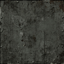
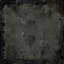
Mouvement de camera + New textures

diff --git a/src/MyGame.cpp b/src/MyGame.cpp
@@ -7,8 +7,8 @@ void MyGame::initialize(void) {
     window_.create();
     camera_.initialize();
 
-    //Map map_(20, 2, 10, &objects_);
-    Map map_("map/usine", USINE, 2, 10, &objects_);
+    //Map map_(60, 2, 11, &objects_);
+    Map map_("map/plaine", USINE, 1, 1, &objects_);
 
     cameraY_ = map_.getMaxX() * 325.0f;
     this->objects_.push_back(new Display::Timer(&objects_));
@@ -40,8 +40,12 @@ void MyGame::update(void) {
         }
     }
     this->checkWin();
-    if (input_.isKeyDown(gdl::Keys::F1) == true)
-        std::cout << camera_.getPosition().y << std::endl;
+    if (input_.isKeyDown(gdl::Keys::F1) == true && camera_.getPosition().z != 5000.0f)
+        camera_.setPosition(camera_.getPosition().x, camera_.getPosition().y, camera_.getPosition().z  + 50.0f);
+    if (input_.isKeyDown(gdl::Keys::F2) == true && camera_.getPosition().z != 900.0f)
+        camera_.setPosition(camera_.getPosition().x, camera_.getPosition().y, camera_.getPosition().z  - 50.0f);
+    if (input_.isKeyDown(gdl::Keys::F3) == true)
+        camera_.setPosition(camera_.getPosition().x, camera_.getPosition().y, 900.0f);
     if (input_.isKeyDown(gdl::Keys::Escape) == true)
         exit(EXIT_FAILURE);
 }
@@ -65,17 +69,24 @@ void MyGame::unload(void) {
 }
 
 void MyGame::checkWin(void) {
-    int count = 0;
+    int countP = 0;
+    int countIA = 0;
     for (std::list<AObject*>::iterator it = this->objects_.begin(); it != this->objects_.end(); ++it) {
-        if ((*it)->getType() == PLAYER && (*it)->getId() <= 3)
-            count++;
+        if ((*it)->getType() == PLAYER && (*it)->getId() < 3)
+            countP++;
+        if ((*it)->getType() == PLAYER && (*it)->getId() == 3)
+            countIA++;
     }
-    if (count == 1) {
+    if (countP == 1 && countIA == 0) {
         for (std::list<AObject*>::iterator it = this->objects_.begin(); it != this->objects_.end(); ++it) {
             if ((*it)->getType() == PLAYER) {
                 std::cout << "GAME OVER: Player " << (*it)->getId() << " win" << std::endl;
                 exit(EXIT_SUCCESS);
             }
         }
+    }
+    if (countP == 0 && countIA > 0) {
+        std::cout << "GAME OVER: Computer win" << std::endl;
+        exit(EXIT_SUCCESS);
     }
 }

diff --git a/src/Display.cpp b/src/Display.cpp
@@ -43,14 +43,14 @@ namespace Display {
 
         glEnd();
         glPopMatrix();
-        camera_.setPosition(this->camera_.getPosition().x, camera_.getPosition().y, camera_.getPosition().z + 1.f);
+        camera_.setPosition(this->camera_.getPosition().x + 1.f, camera_.getPosition().y, camera_.getPosition().z);
 
         T_time_.setText(s_time_);
         T_time_.setSize(18);
         T_time_.setPosition(500, 10);
         T_time_.draw();
 
-        camera_.setPosition(camera_.getPosition().x, camera_.getPosition().y, (camera_.getPosition().z - 1.f));
+        camera_.setPosition(camera_.getPosition().x - 1.f, camera_.getPosition().y, (camera_.getPosition().z));
     }
 
     std::string Timer::float2string(float f) {

diff --git a/src/Bomberman.cpp b/src/Bomberman.cpp
@@ -70,8 +70,11 @@ void Bomberman::initialize(void) {
 
 void Bomberman::update(gdl::GameClock const &gameClock, gdl::Input &input) {
     model_.set_anim_speed("Take 001", 1 * this->speed_);
-    this->model_.update(gameClock);
-    this->move(input);
+    if (this->id_ != 3) {
+        this->model_.update(gameClock);
+        this->move(input);
+    }
+
 }
 
 void Bomberman::draw(void) {

diff --git a/src/Map.cpp b/src/Map.cpp
@@ -107,7 +107,6 @@ void Map::randMap(int size) {
     this->maxX_ = size;
     int value;
 
-    //this->objects_->push_back(new MapElement::Background(0, 0, this->theme_, this->objects_));
     while (z <= maxX_ / 2) {
         while (x <= maxX_ / 2) {
             if ((z == (size - size - size) / 2 || x == (size - size - size) / 2 || x == size / 2 || z == size / 2) ||
